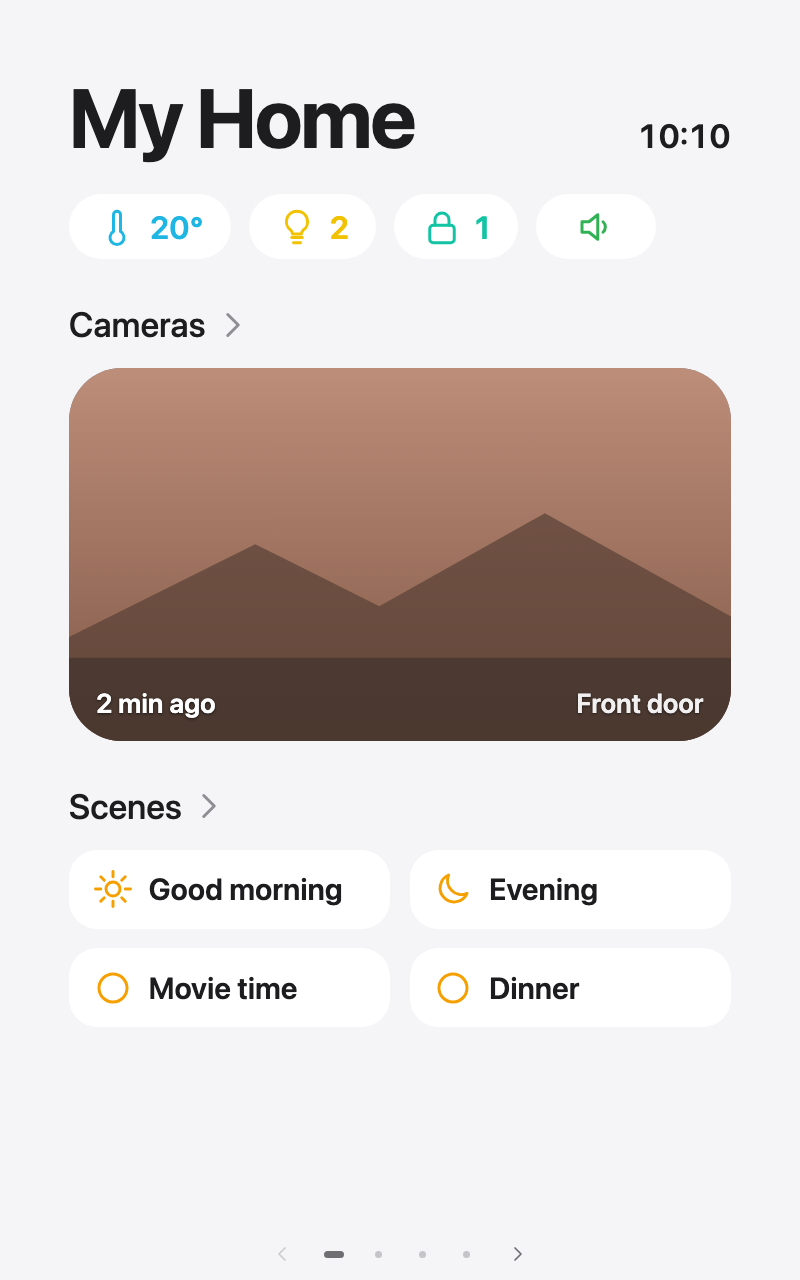
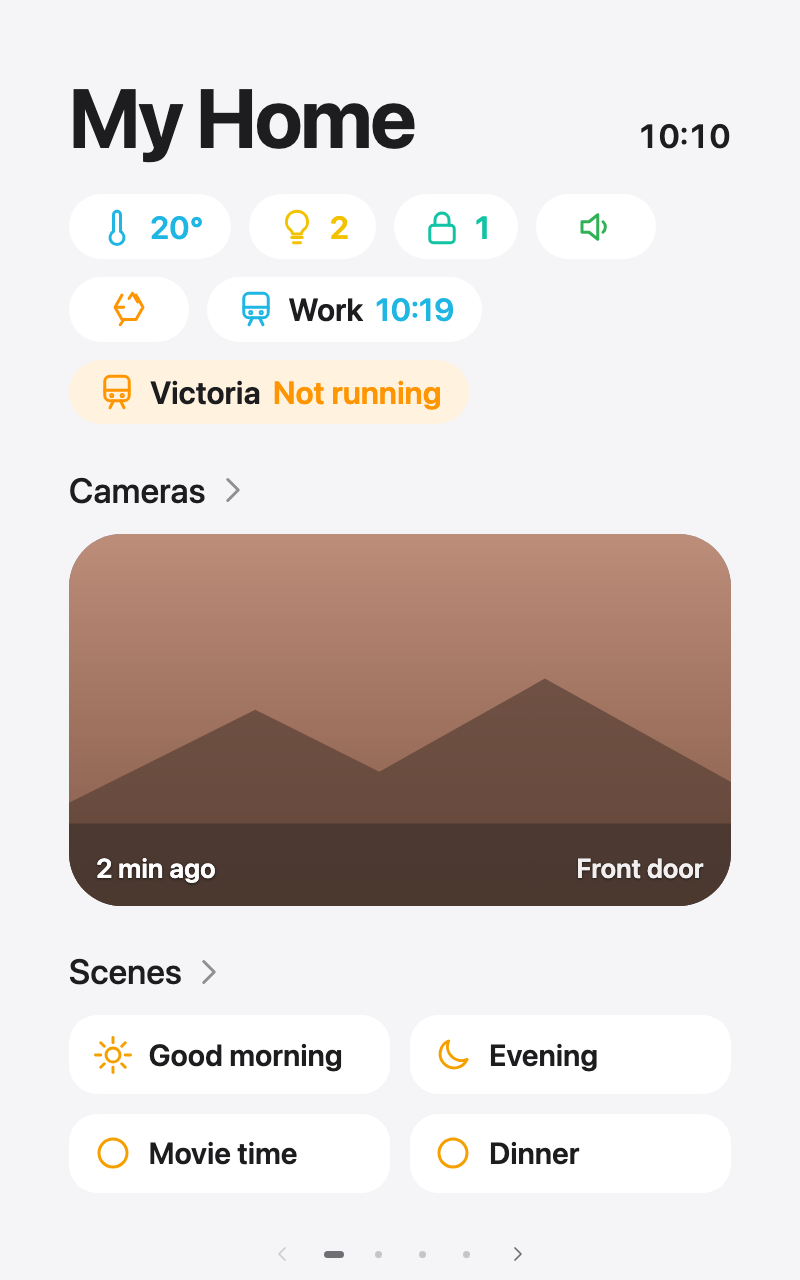
Home overview: optional bins and transport chips

diff --git a/src/overviews/home/index.js b/src/overviews/home/index.js
@@ -7,7 +7,11 @@ import {
   cameraOk,
   chips,
   collect,
+  binsEntity,
+  binsThisWeek,
   minuteOf,
+  transportChip,
+  transportItems,
   parseTime,
   visibleCameras
 } from './model.js';
@@ -81,6 +85,54 @@ function chipHTML(ctx, chip, live) {
   });
 }
 
+/** The bins going out this week: one chip of icons (a bin icon per type), nothing when none is due. */
+function binsChipHTML(ctx, live) {
+  const id = binsEntity(ctx.config?.home_bins);
+  if (!id) return '';
+  const bins = binsThisWeek(ctx.stateOf(id), ctx.now());
+  if (!bins.length) return '';
+  const when = (days) =>
+    days === 0
+      ? ctx.t('home_overview.bin.today')
+      : days === 1
+        ? ctx.t('home_overview.bin.tomorrow')
+        : ctx.t('home_overview.bin.in', {n: days});
+  const names = bins.map((bin) => `${bin.type} (${when(bin.days)})`).join(', ');
+  const icons = bins.map((bin) => iconBox(ctx, bin.icon)).join('');
+  const soon = bins[0].days <= 1;
+  const attrs = ` data-tone="${soon ? 'amber' : 'teal'}" aria-label="${ctx.esc(ctx.t('home_overview.bins', {names}))}" title="${ctx.esc(names)}"`;
+  return control(live, 'span', {
+    action: 'info',
+    entity: ctx.esc(id),
+    cls: 'ov-home-chip ov-home-bins',
+    inner: icons,
+    attrs
+  });
+}
+
+/** A departure chip per `home_transport` item: icon, label and the next time; amber when the line is not running. */
+function transportChipsHTML(ctx, live) {
+  return transportItems(ctx.config?.home_transport)
+    .map((item) => {
+      const chip = transportChip(item, ctx.stateOf);
+      const label = ctx.esc(chip.label);
+      const aria = chip.running
+        ? ctx.t('home_overview.transport', {label: chip.label, time: chip.time})
+        : ctx.t('home_overview.transport.down', {label: chip.label});
+      const value = chip.running
+        ? `<span class="ov-home-chip-value">${ctx.esc(chip.time)}</span>`
+        : `<span class="ov-home-chip-value">${ctx.esc(ctx.t('home_overview.transport.none'))}</span>`;
+      return control(live, 'span', {
+        action: 'info',
+        entity: ctx.esc(chip.entity),
+        cls: `ov-home-chip ov-home-transport${chip.running ? '' : ' ov-home-down'}`,
+        inner: `${iconBox(ctx, chip.icon)}<span class="ov-home-chip-label">${label}</span>${value}`,
+        attrs: ` data-tone="${chip.running ? 'cyan' : 'amber'}" aria-label="${ctx.esc(aria)}"`
+      });
+    })
+    .join('');
+}
+
 function sectionHeader(ctx, live, key, firstIndex) {
   const text = ctx.esc(ctx.t(`home_overview.section.${key}`));
   const inner = `<span class="ov-home-heading-text">${text}</span>${iconBox(ctx, 'mdi:chevron-right')}`;
@@ -137,9 +189,10 @@ function sceneHTML(ctx, mode) {
   const live = mode === 'card';
   const groups = collect(ctx.config?.widgets);
   const row = chips(groups, ctx.stateOf, (n) => ctx.formatNumber(n));
+  const extras = binsChipHTML(ctx, mode === 'card') + transportChipsHTML(ctx, mode === 'card');
   const cameras = visibleCameras(groups);
   const scenes = groups.scene;
-  const empty = !row.length && !cameras.length && !scenes.length;
+  const empty = !row.length && !extras && !cameras.length && !scenes.length;
   const title = ctx.esc(ctx.options.title || ctx.t('home_overview.title'));
   const time = ctx.options.show_time
     ? `<p class="ov-home-time">${ctx.esc(ctx.timeParts(ctx.now()).text)}</p>`
@@ -148,8 +201,8 @@ function sceneHTML(ctx, mode) {
   if (empty) {
     body = `<p class="ov-home-empty">${ctx.esc(ctx.t('home_overview.empty'))}</p>`;
   } else {
-    if (row.length) {
-      body += `<div class="ov-home-chips">${row.map((chip) => chipHTML(ctx, chip, live)).join('')}</div>`;
+    if (row.length || extras) {
+      body += `<div class="ov-home-chips">${row.map((chip) => chipHTML(ctx, chip, live)).join('')}${extras}</div>`;
     }
     let main = '';
     if (cameras.length) {
@@ -179,7 +232,7 @@ function sceneHTML(ctx, mode) {
  */
 function stampOf(ctx) {
   const cameras = collect(ctx.config?.widgets).camera.length > 0;
-  if (!ctx.options.show_time && !cameras) return null;
+  if (!ctx.options.show_time && !cameras && !binsEntity(ctx.config?.home_bins)) return null;
   return `${minuteOf(ctx.now())}|${cameras ? bucketOf(ctx.now()) : 0}`;
 }
 
@@ -207,7 +260,12 @@ const watched = (config) => {
     ...groups.media,
     ...visibleCameras(groups),
     ...groups.scene
-  ].map((item) => item.entity);
+  ]
+    .map((item) => item.entity)
+    .concat(
+      binsEntity(config?.home_bins) || [],
+      transportItems(config?.home_transport).map((item) => item.entity)
+    );
 };
 
 export default defineOverview({

diff --git a/src/overviews/home/model.js b/src/overviews/home/model.js
@@ -163,6 +163,85 @@ export function chips(groups, stateOf, format = String) {
   return out;
 }
 
+// ---- bins and transport chips (optional, configured on the card: `home_bins`, `home_transport`) ---------------------------
+
+const BIN_ICONS = [
+  [/non-?\s?recycl|general|refuse|residual|black/i, 'mdi:trash-can'],
+  [/recycl/i, 'mdi:recycle'],
+  [/food|caddy/i, 'mdi:food-apple'],
+  [/garden|green|organic/i, 'mdi:leaf'],
+  [/glass|bottle/i, 'mdi:bottle-wine'],
+  [/paper|card/i, 'mdi:newspaper'],
+  [/.*/, 'mdi:trash-can']
+];
+const DAY_MS = 86400000;
+
+/** The icon of a bin type ("Recycling", "Non-Recyclable Waste", "Garden waste", ...). */
+export const binIcon = (type) => BIN_ICONS.find(([pattern]) => pattern.test(type))[1];
+
+/**
+ * The bins going out in the next 7 days, from a waste_collection_schedule sensor: its attributes are dates
+ * (`2026-10-16: Recycling`), and the state reads "Recycling in 2 days". Entities that do not describe a collection give [].
+ * @param {any} state   the sensor's state object
+ * @param {number} now  milliseconds
+ * @returns {{type: string, icon: string, days: number}[]}  nearest first, one per type
+ */
+export function binsThisWeek(state, now) {
+  if (!known(state)) return [];
+  const today = Date.parse(new Date(now).toISOString().slice(0, 10));
+  const found = new Map();
+  const add = (types, days) => {
+    for (const raw of String(types).split(/,|\band\b|&/)) {
+      const type = raw.trim();
+      if (type && days >= 0 && days < 7 && !found.has(type)) found.set(type, days);
+    }
+  };
+  for (const [key, value] of Object.entries(state.attributes || {})) {
+    if (!/^\d{4}-\d{2}-\d{2}/.test(key)) continue;
+    add(value, Math.round((Date.parse(key.slice(0, 10)) - today) / DAY_MS));
+  }
+  if (!found.size) {
+    const match = /^(.*) in (\d+) days?$/i.exec(String(state.state));
+    if (match) add(match[1], Number(match[2]));
+    else if (/^(.*) (today|tomorrow)$/i.test(String(state.state)))
+      add(RegExp.$1, /today/i.test(state.state) ? 0 : 1);
+  }
+  return [...found]
+    .map(([type, days]) => ({type, icon: binIcon(type), days}))
+    .sort((a, b) => a.days - b.days);
+}
+
+/**
+ * One transport chip from a departure sensor (the London TfL integration: the state is the next departure as "HH:MM",
+ * "None" when nothing is due). A line that is not running (no departure, unavailable, an error text) is `running: false`.
+ * @param {{entity: string, label?: string, icon?: string}} item
+ * @returns {{entity: string, label: string, icon: string, time: string, running: boolean}}
+ */
+export function transportChip(item, stateOf) {
+  const state = stateOf(item.entity);
+  const text = known(state) ? String(state.state).trim() : '';
+  const time = /^\d{1,2}:\d{2}$/.test(text) ? text : '';
+  const name = state?.attributes?.friendly_name;
+  return {
+    entity: item.entity,
+    label: item.label || name || item.entity.split('.')[1].replaceAll('_', ' '),
+    icon: item.icon || 'mdi:subway-variant',
+    time,
+    running: !!time
+  };
+}
+
+/** The `home_transport` list as items: entity ids only, with an optional label and icon. */
+export function transportItems(value) {
+  return (Array.isArray(value) ? value : [])
+    .map((item) => (typeof item === 'string' ? {entity: item} : item))
+    .filter((item) => item && typeof item.entity === 'string' && item.entity.includes('.'));
+}
+
+/** The `home_bins` entity: a sensor id, or `{entity}`. */
+export const binsEntity = (value) =>
+  typeof value === 'string' ? value : typeof value?.entity === 'string' ? value.entity : '';
+
 /** The cameras that get a card (at most MAX_CAMERAS), in configured order. */
 export const visibleCameras = (groups) => groups.camera.slice(0, MAX_CAMERAS);
 

diff --git a/src/overviews/home/style.css b/src/overviews/home/style.css
@@ -1,5 +1,5 @@
 /* @phase overviews */
-/* @owns ov-home-scene ov-home-scroll ov-home-head ov-home-title ov-home-time ov-home-chips ov-home-chip ov-home-chip-value ov-home-dim ov-home-playing ov-home-body ov-home-section ov-home-cameras ov-home-scenes ov-home-heading ov-home-heading-text ov-home-ico ov-home-cams ov-home-cam ov-home-cam-icon ov-home-has-picture ov-home-snap ov-home-ago ov-home-cam-name ov-home-tiles ov-home-tile ov-home-tile-icon ov-home-tile-name ov-home-empty */
+/* @owns ov-home-scene ov-home-scroll ov-home-head ov-home-title ov-home-time ov-home-chips ov-home-chip ov-home-chip-value ov-home-bins ov-home-chip-label ov-home-transport ov-home-down ov-home-dim ov-home-playing ov-home-body ov-home-section ov-home-cameras ov-home-scenes ov-home-heading ov-home-heading-text ov-home-ico ov-home-cams ov-home-cam ov-home-cam-icon ov-home-has-picture ov-home-snap ov-home-ago ov-home-cam-name ov-home-tiles ov-home-tile ov-home-tile-icon ov-home-tile-name ov-home-empty */
 
 /*
  * The home screen: a light, scrollable panel (a dark one under `.dark`). No blur, no filter, no animation and no
@@ -127,6 +127,26 @@
 }
 .ov-home-dim {
   opacity: 0.45;
+}
+
+/* bins and transport chips */
+.ov-home-bins {
+  gap: 1.2cqmin;
+}
+.ov-home-bins .ov-home-ico {
+  color: var(--tone);
+}
+.ov-home-chip-label {
+  color: #1d1d1f;
+}
+.dark .ov-home-chip-label {
+  color: #f5f5f7;
+}
+.ov-home-down {
+  background: #fff3e0;
+}
+.dark .ov-home-down {
+  background: #3d2a10;
 }
 .ov-home-chip:active,
 .ov-home-tile:active {

diff --git a/src/config/validate.js b/src/config/validate.js
@@ -60,6 +60,32 @@ function validateOptionalSettings(config) {
   if (config.home_title !== undefined && typeof config.home_title !== 'string') {
     throw new Error('home_title must be text.');
   }
+  if (
+    config.home_bins !== undefined &&
+    !/^sensor\.\w+$/.test(config.home_bins?.entity ?? config.home_bins)
+  ) {
+    throw new Error('home_bins must be a sensor entity id (or {entity: sensor.bins}).');
+  }
+  if (config.home_transport !== undefined) {
+    const items = config.home_transport;
+    if (
+      !Array.isArray(items) ||
+      !items.every((item) => /^sensor\.\w+$/.test(typeof item === 'string' ? item : item?.entity))
+    ) {
+      throw new Error(
+        'home_transport must be a list of sensors: sensor.id or {entity, label, icon}.'
+      );
+    }
+    if (
+      items.some(
+        (item) =>
+          typeof item === 'object' &&
+          [item.label, item.icon].some((v) => v !== undefined && typeof v !== 'string')
+      )
+    ) {
+      throw new Error('home_transport label and icon must be text.');
+    }
+  }
   if (config.editor_preview !== undefined && !EDITOR_PREVIEWS.includes(config.editor_preview)) {
     throw new Error(`editor_preview must be ${sentenceList(EDITOR_PREVIEWS)}.`);
   }

diff --git a/src/overviews/home/strings.js b/src/overviews/home/strings.js
@@ -16,6 +16,13 @@ export default {
     'home_overview.chip.media': 'Media',
     'home_overview.chip.media_playing': 'Media, playing',
     'home_overview.camera': 'Open {name}',
+    'home_overview.bins': 'Bins out: {names}',
+    'home_overview.bin.today': 'today',
+    'home_overview.bin.tomorrow': 'tomorrow',
+    'home_overview.bin.in': 'in {n} days',
+    'home_overview.transport': '{label}: next {time}',
+    'home_overview.transport.down': '{label}: not running',
+    'home_overview.transport.none': 'Not running',
 
     'home_overview.option.title.label': 'Title',
     'home_overview.option.title.helper': 'The large heading. Empty uses "Home".',

diff --git a/docs/overviews/home.md b/docs/overviews/home.md
@@ -22,6 +22,23 @@ Everything reads from the card's widget list and Home Assistant; the overview ne
 | **Cameras** | Up to three `camera` widgets: a large rounded snapshot with a small "2m ago" label (from the entity's `last_updated`, in your language) | Opens the camera gallery when the card has `camera_gallery`, otherwise the camera's more-info dialog. The heading "Cameras" goes to the page of the first camera widget |
 | **Scenes** | Every `action` widget whose entity is a `scene.*` (scripts and buttons are not listed): a tile with the icon and name, two per row | Runs the scene. The heading goes to the page of the first scene widget |
 
+### Bins and transport chips (optional)
+
+Two optional chips are read from the **card** configuration (the same keys work wherever the overview is shown):
+
+```yaml
+home_bins: sensor.bins          # a waste_collection_schedule sensor with details_format: upcoming
+home_transport:                 # as many as you like
+  - entity: sensor.london_tfl_piccadilly_940gzzlutpn_all
+    label: Work                 # shown on the chip (default: the sensor's name)
+    icon: mdi:subway-variant    # any icon (default: mdi:subway-variant)
+```
+
+* **Bins**: one chip of icons, one per bin type going out in the next 7 days (recycling, general waste, food, garden, glass,
+  paper). It turns amber when a bin goes out today or tomorrow and is absent when none is due. A press opens the sensor.
+* **Transport**: one chip per entry with the label and the next departure time (the London TfL sensor's `HH:MM` state). When the
+  sensor has no departure (`None`, unavailable) the chip turns amber and says "Not running". A press opens the sensor.
+
 A chip, a section or a camera exists only when the carousel has widgets of that kind. With none of them the screen says
 "Add lights, climate, locks, cameras or scenes to this dashboard". Snapshots are loaded from your own Home Assistant
 only (`/camera_proxy/`), refreshed every 30 seconds on the shared ticker; the "2m ago" label and the clock change on the

diff --git a/src/overviews/home/README.md b/src/overviews/home/README.md
@@ -26,6 +26,23 @@ Everything reads from the card's widget list and Home Assistant; the overview ne
 | **Cameras** | Up to three `camera` widgets: a large rounded snapshot with a small "2m ago" label (from the entity's `last_updated`, in your language) | Opens the camera gallery when the card has `camera_gallery`, otherwise the camera's more-info dialog. The heading "Cameras" goes to the page of the first camera widget |
 | **Scenes** | Every `action` widget whose entity is a `scene.*` (scripts and buttons are not listed): a tile with the icon and name, two per row | Runs the scene. The heading goes to the page of the first scene widget |
 
+### Bins and transport chips (optional)
+
+Two optional chips are read from the **card** configuration (the same keys work wherever the overview is shown):
+
+```yaml
+home_bins: sensor.bins          # a waste_collection_schedule sensor with details_format: upcoming
+home_transport:                 # as many as you like
+  - entity: sensor.london_tfl_piccadilly_940gzzlutpn_all
+    label: Work                 # shown on the chip (default: the sensor's name)
+    icon: mdi:subway-variant    # any icon (default: mdi:subway-variant)
+```
+
+* **Bins**: one chip of icons, one per bin type going out in the next 7 days (recycling, general waste, food, garden, glass,
+  paper). It turns amber when a bin goes out today or tomorrow and is absent when none is due. A press opens the sensor.
+* **Transport**: one chip per entry with the label and the next departure time (the London TfL sensor's `HH:MM` state). When the
+  sensor has no departure (`None`, unavailable) the chip turns amber and says "Not running". A press opens the sensor.
+
 A chip, a section or a camera exists only when the carousel has widgets of that kind. With none of them the screen says
 "Add lights, climate, locks, cameras or scenes to this dashboard". Snapshots are loaded from your own Home Assistant
 only (`/camera_proxy/`), refreshed every 30 seconds on the shared ticker; the "2m ago" label and the clock change on the

diff --git a/docs/configuration.md b/docs/configuration.md
@@ -41,6 +41,8 @@ screensaver:
 | `high_contrast` | `false` | Stronger fills and edges |
 | `performance` | `auto` | How much decoration is painted: `full`, `lite` or `auto`. See [performance](performance.md) |
 | `home_overview` | `false` | `true` adds the [home overview](overviews/home.md) (a scrollable home screen built from this dashboard's widgets) behind a small home button at the bottom left of the screen (opposite the Dim button). The button opens the overview full screen; a tap closes it. It adds no page. Also a switch in the card editor |
+| `home_bins` | none | A [waste_collection_schedule](overviews/home.md) sensor (`sensor.bins`): the home overview shows an icon chip for the bins going out in the next 7 days |
+| `home_transport` | none | A list of departure sensors (`sensor.id` or `{entity, label, icon}`): the home overview shows a chip per entry with the next departure time, amber when nothing is running |
 | `home_title` | `Home` | The title shown on the home overview when `home_overview` is on |
 | `editor_preview` | `landscape` | How the live preview in Home Assistant's card editor is drawn: as a `landscape` tablet (1280 x 800), a `portrait` tablet (800 x 1280), or `auto` (the narrow box as it is). The card is laid out at that size and scaled to fit the preview, so the preview shows the real page arrangement. It has no effect anywhere else |
 | `camera_gallery` | none | A grid of up to four cameras, opened by pressing the camera widget. See [cameras](cameras.md) |

diff --git a/CHANGELOG.md b/CHANGELOG.md
@@ -20,6 +20,8 @@ The release workflow publishes the section of the tagged version as the release 
 
 * `home_overview: true` (a switch in the card editor) adds a small home button at the bottom left, opposite the Dim button;
   it opens the home overview full screen. `home_title` sets its title. Off by default.
+* Home overview: optional bins chip (`home_bins`, icons for the bins going out this week) and transport chips (`home_transport`,
+  a custom label, a selectable icon and the next departure time, amber when a line is not running).
 * The weather widget opens the full-screen weather overview when pressed (`weather_view: false` keeps more-info). The month
   calendar overview covers the whole screen.
 * The timer widget now follows the quiet style of the blinds and thermostat widgets.
